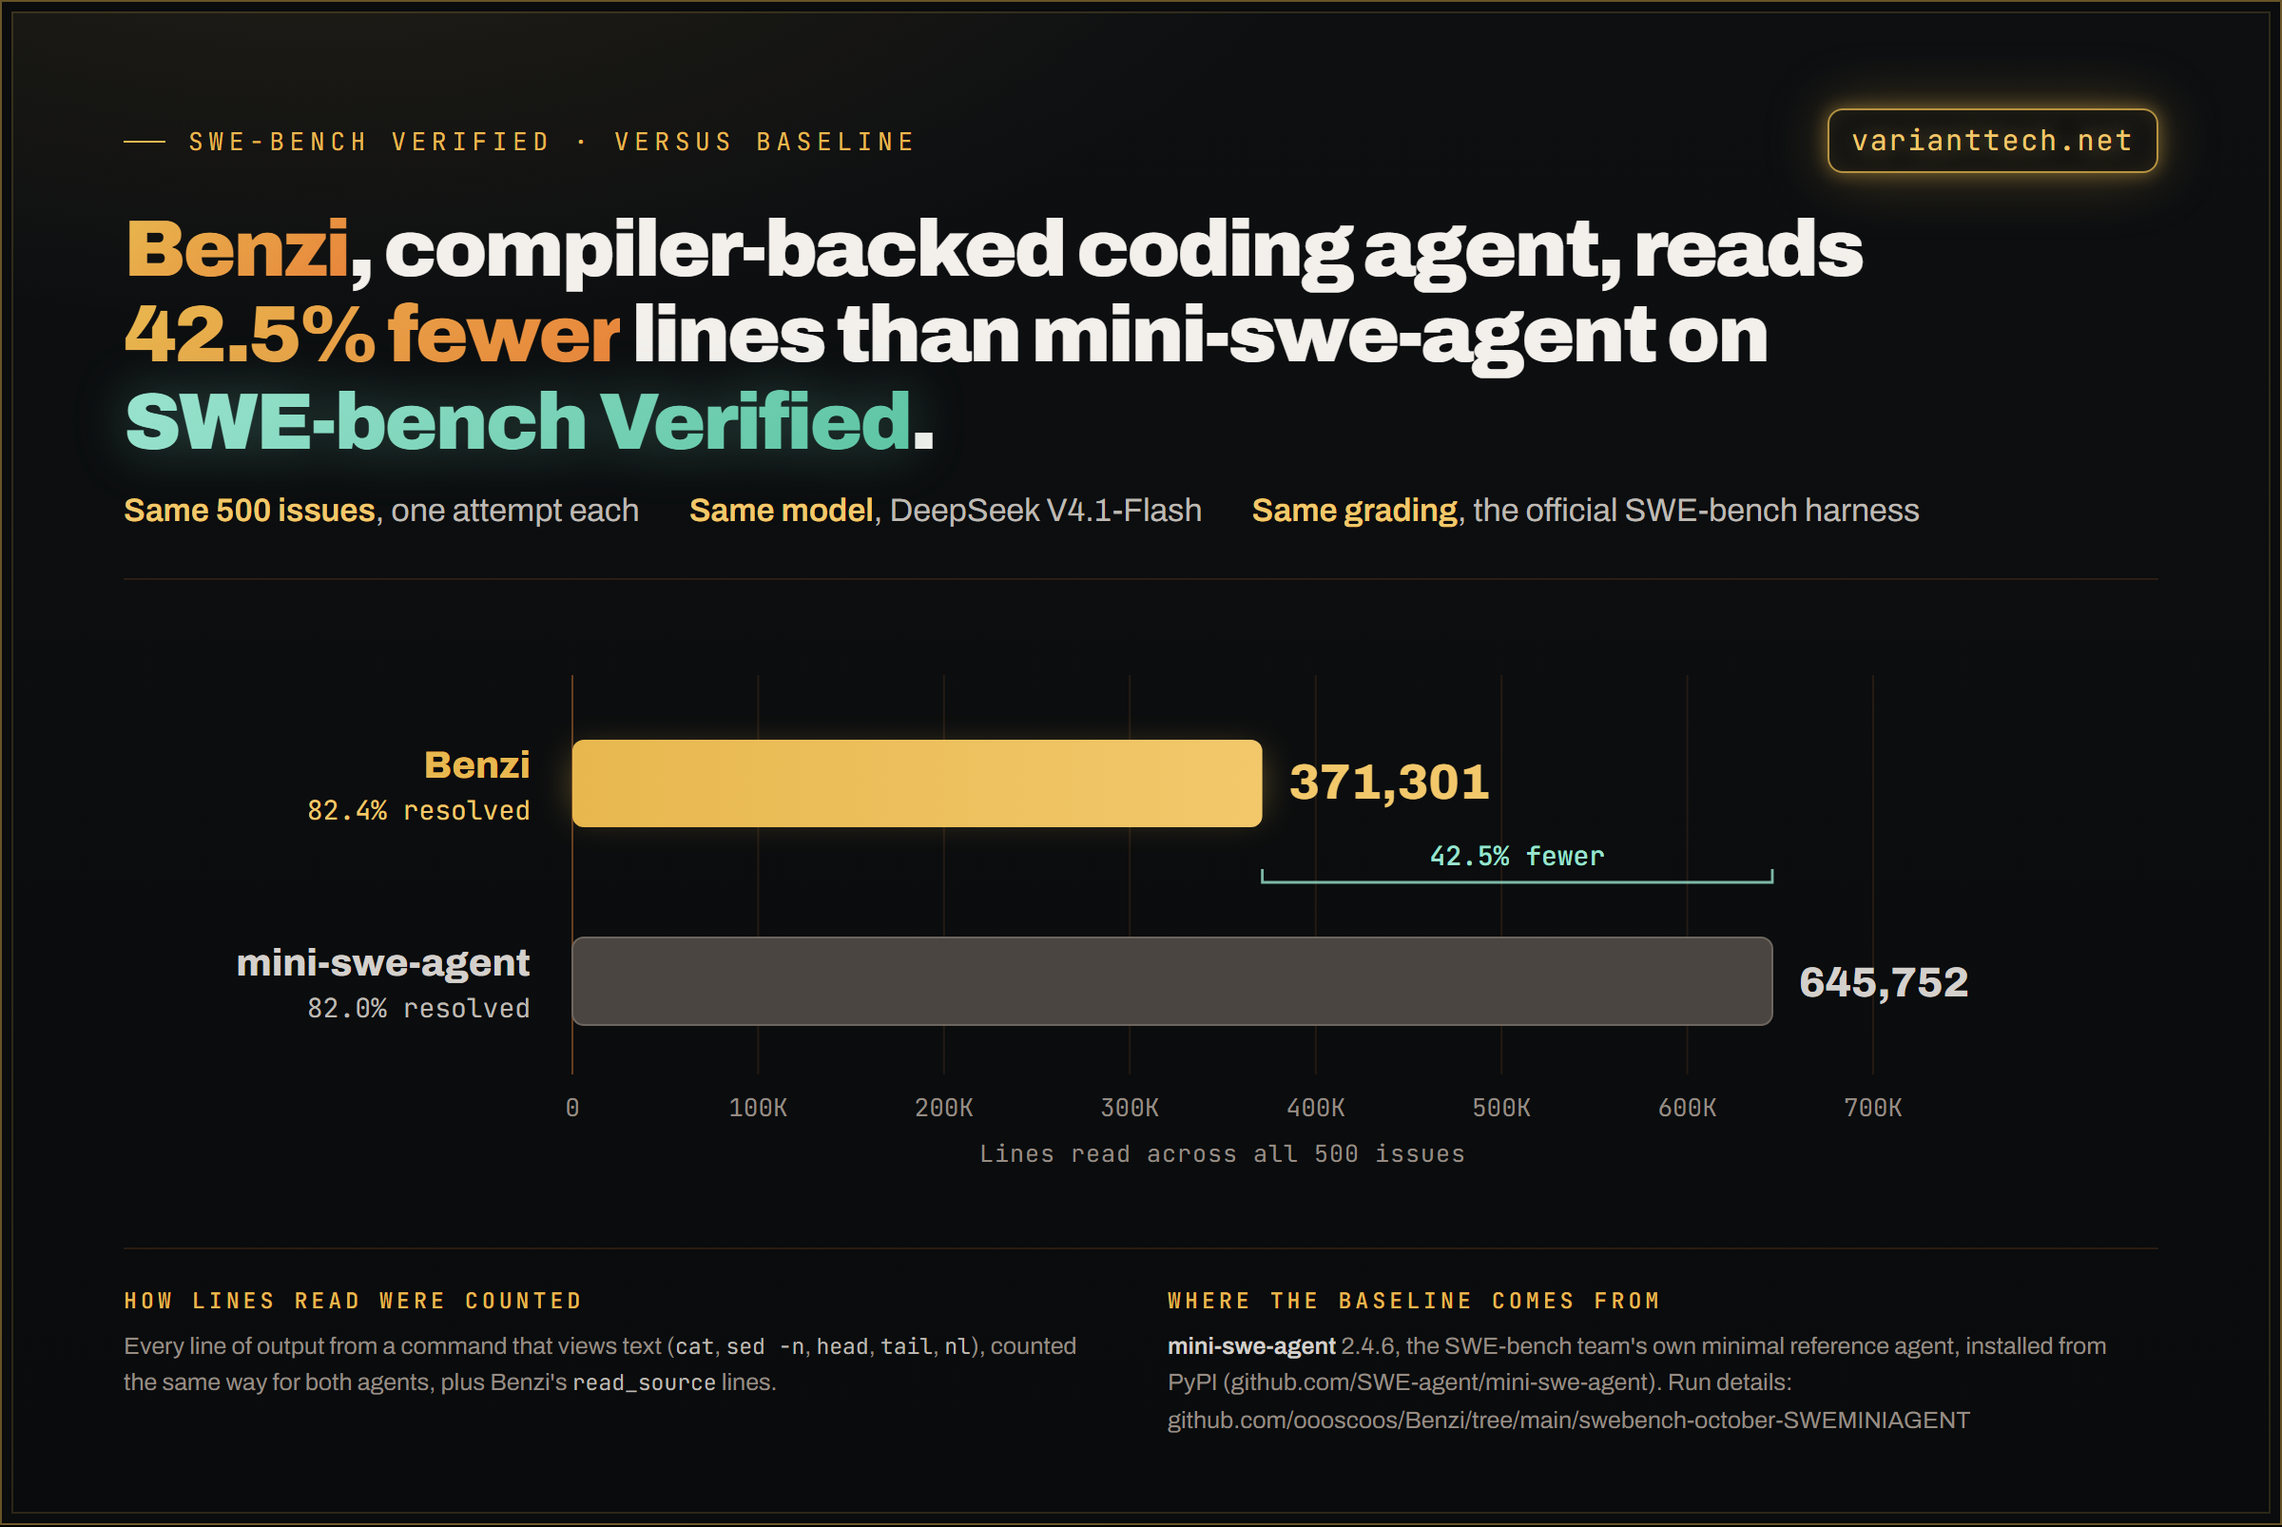
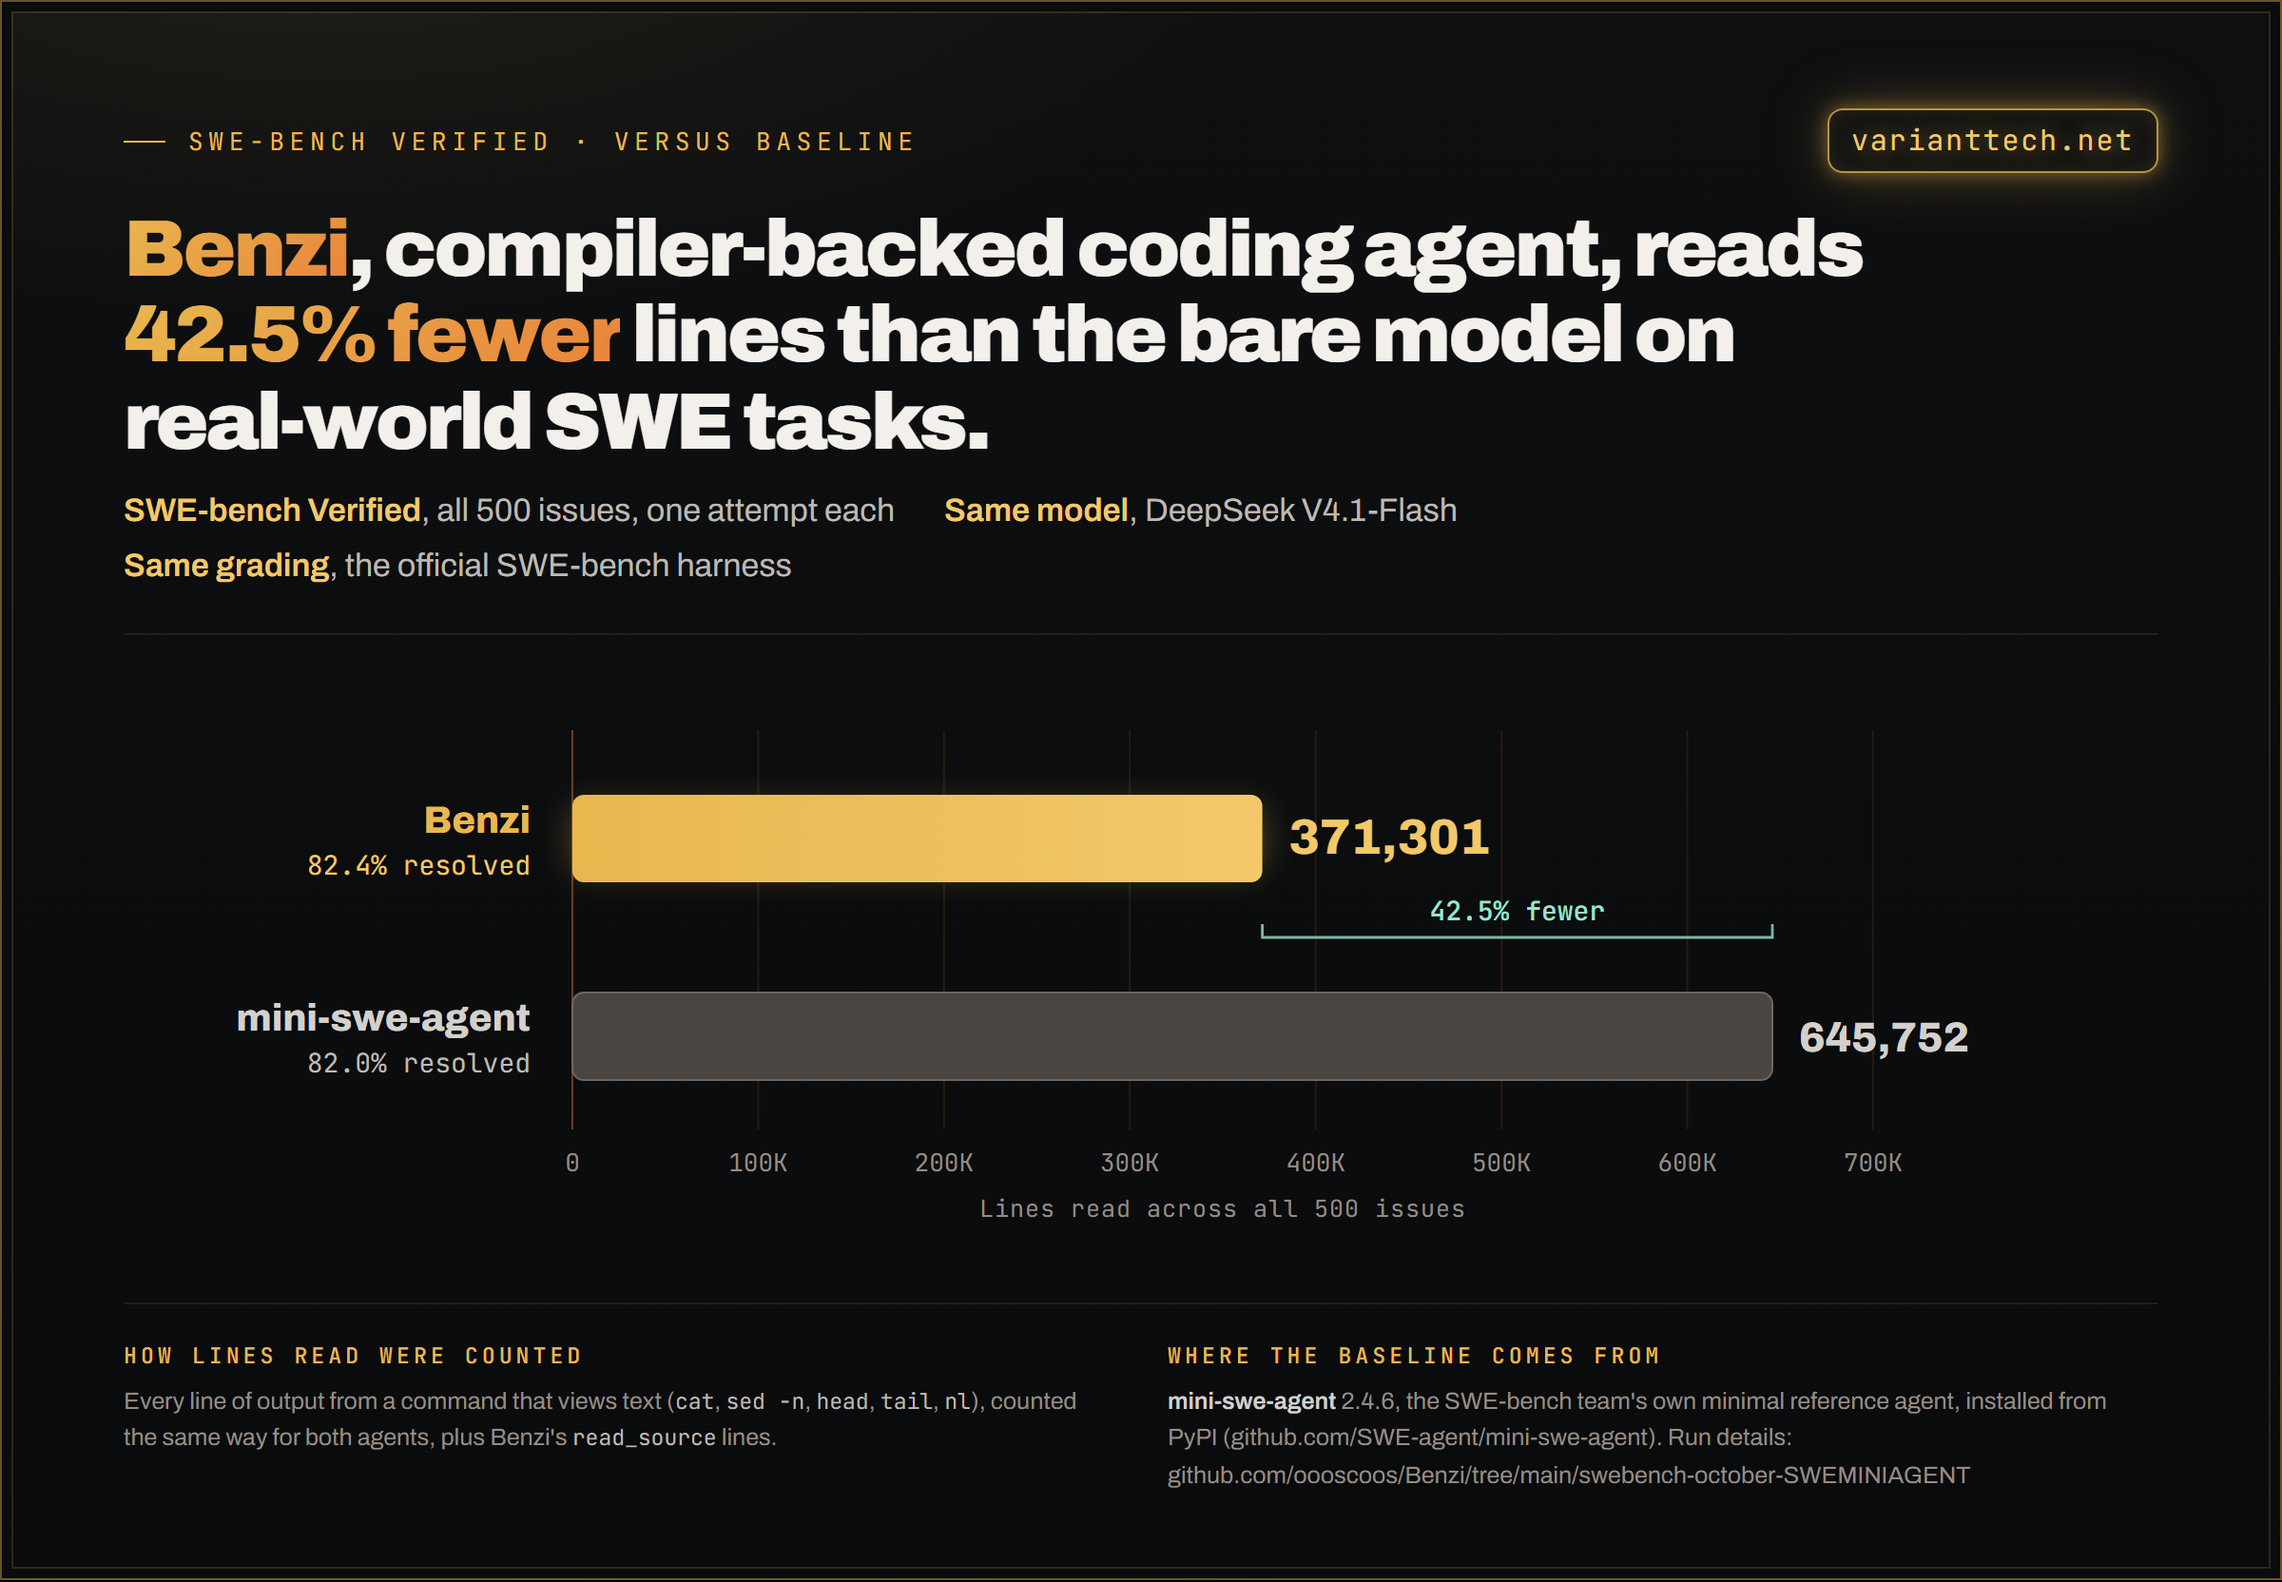
README: lines-read graphic reworded -- fewer lines than the bare model on real-world SWE tasks

diff --git a/README.md b/README.md
@@ -181,7 +181,7 @@ VS Code's settings panel and `benzi-login` share one config: log in once, and VS
 The full SWE-bench Verified set — 500 real GitHub issues from twelve Python repositories — run end to end on **DeepSeek V4.1-Flash**, one attempt per instance, graded by the official `swebench.harness.run_evaluation` inside its own per-instance Docker images, with network access to GitHub and PyPI blocked inside every container. **412 of 500 resolved (82.4%) for $12.96 in total**, about 3¢ per fix, with 97.6% of input tokens served from cache.
 
 <p align="center">
-  <img src="https://raw.githubusercontent.com/oooscoos/Benzi/main/assets/swebench_lines_read.png" width="1000" alt="Benzi, compiler-backed coding agent, reads 42.5% fewer lines than mini-swe-agent on SWE-bench Verified: 371,301 vs 645,752 lines across all 500 issues, same model">
+  <img src="https://raw.githubusercontent.com/oooscoos/Benzi/main/assets/swebench_lines_read.png" width="1000" alt="Benzi, compiler-backed coding agent, reads 42.5% fewer lines than the bare model on real-world SWE tasks: 371,301 vs 645,752 lines across all 500 SWE-bench Verified issues, same model (mini-swe-agent as the baseline)">
 </p>
 
 Full technical report: [swebench-october/SWE_BENCH_REPORT.md](swebench-october/SWE_BENCH_REPORT.md) ([web version](https://varianttech.net/report)). Every instance's cost, tokens and turns: [varianttech.net/benchmark_swebench](https://varianttech.net/benchmark_swebench). The cross-harness efficiency comparison below (and the full 24-bug chart): [varianttech.net/benchmark](https://varianttech.net/benchmark).
